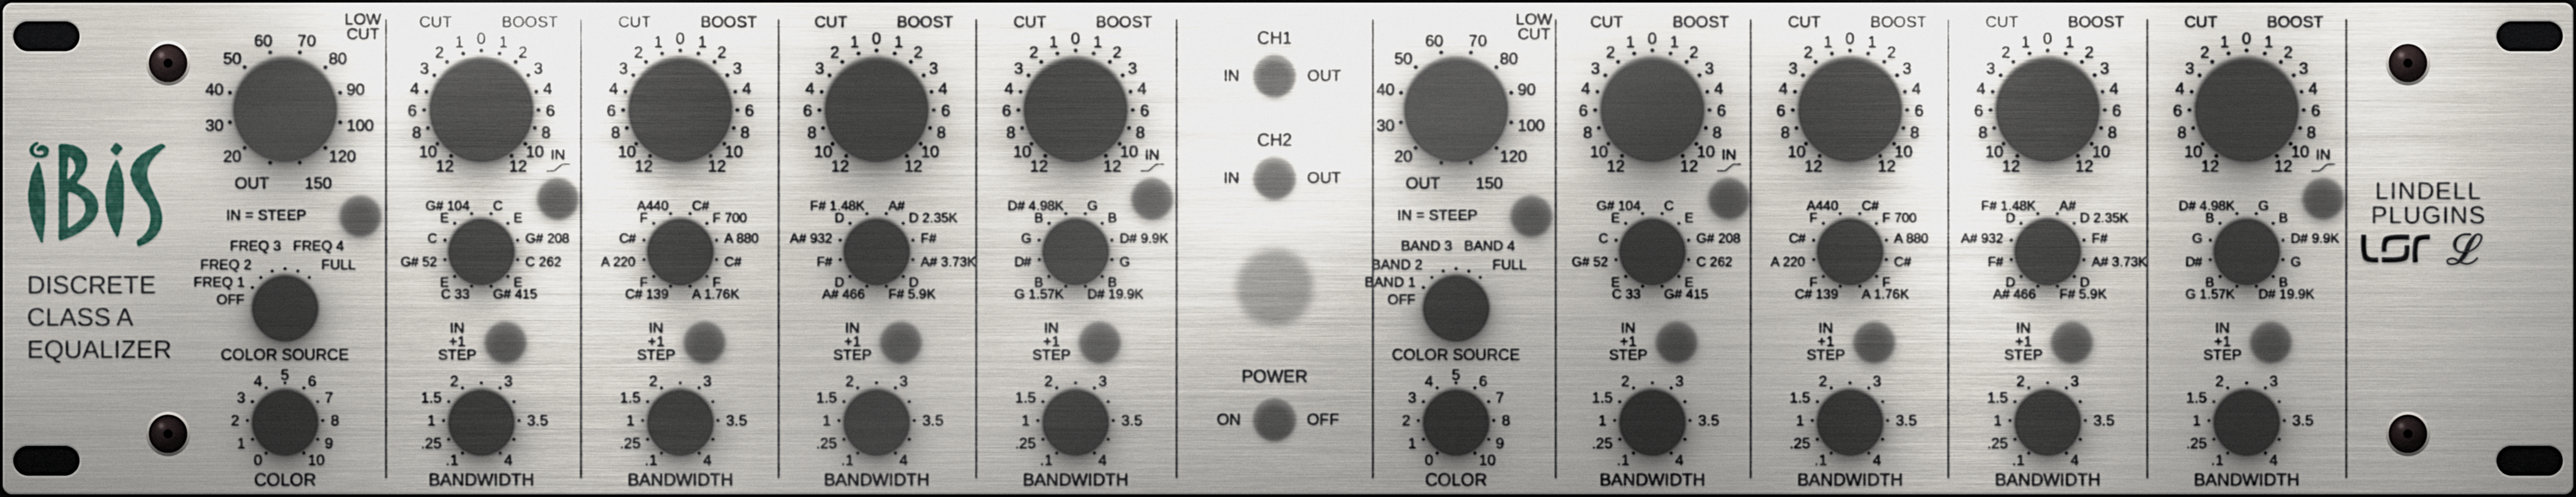
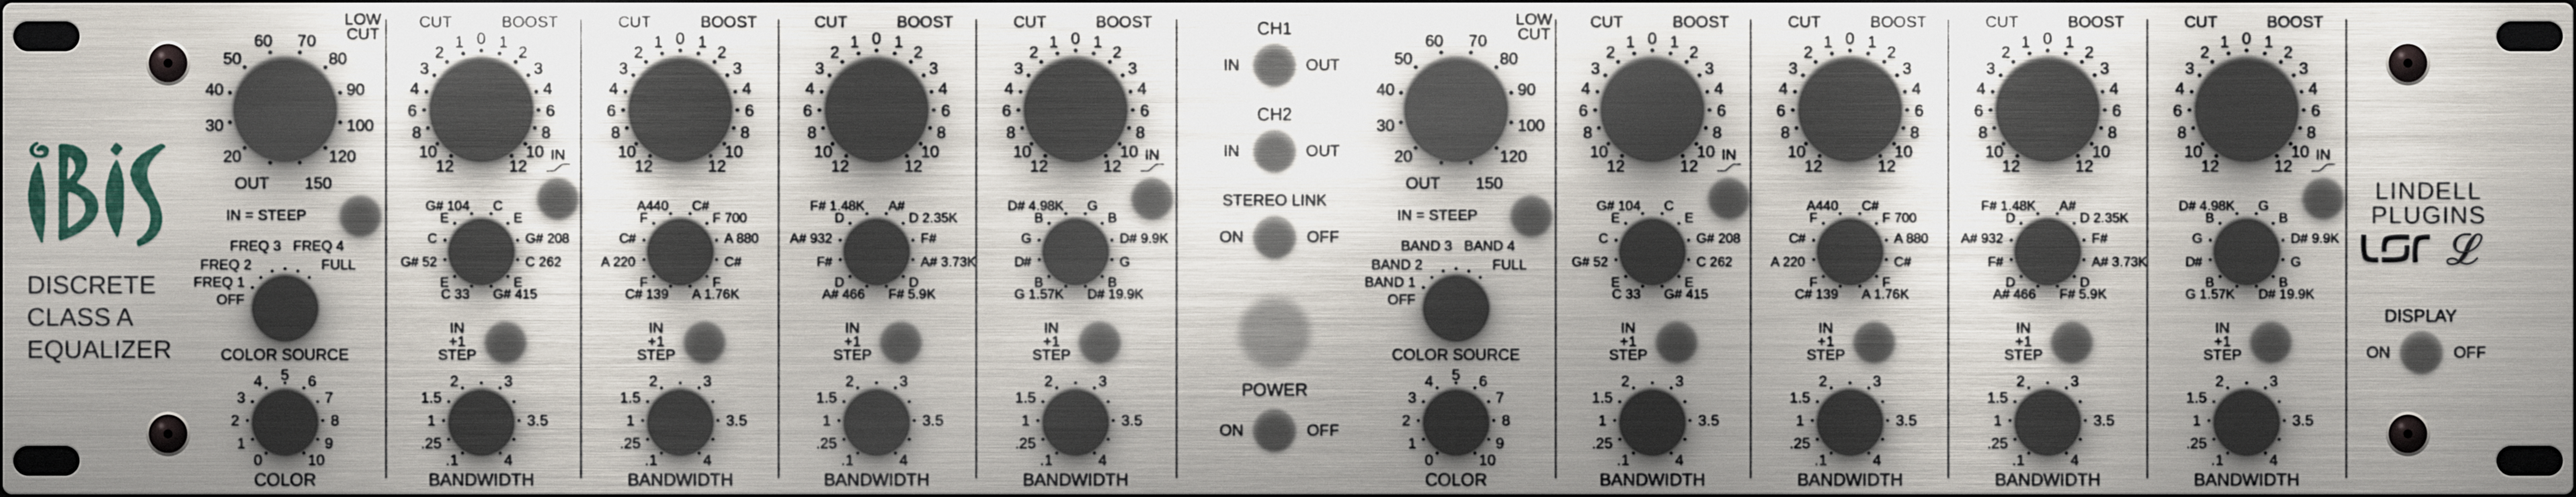
STEREO LINK and DISPLAY switches; remove divider through CH2 colour-source labels
- STEREO LINK toggle in the centre section (drives the link parameter)
- DISPLAY toggle on the right: folds the analyser away and resizes the plug-in
  (saved with the session)
- Centre section restacked: CH1, CH2, STEREO LINK, lamp, POWER

Claude-Session: https://claude.ai/code/session_01LNKzgozXbHNsCZNYUohMgB

Changed region(s): [[0.4658, 0.2176, 0.5279, 0.9014], [0.4658, 0.0622, 0.5279, 0.1865], [0.9006, 0.6216, 0.9627, 0.7459]]

diff --git a/Source/PluginEditor.cpp b/Source/PluginEditor.cpp
@@ -138,7 +138,9 @@ HeronEQAudioProcessorEditor::HeronEQAudioProcessorEditor (HeronEQAudioProcessor&
         addAndMakeVisible (*toggle);
         if (juce::String (t.name) == "ch1") ch1Att = std::make_unique<ButtonAtt> (proc.apvts, ids::channelIn (0), *toggle);
         if (juce::String (t.name) == "ch2") ch2Att = std::make_unique<ButtonAtt> (proc.apvts, ids::channelIn (1), *toggle);
+        if (juce::String (t.name) == "link") linkAtt = std::make_unique<ButtonAtt> (proc.apvts, ids::link, *toggle);
         if (juce::String (t.name) == "power") powerSwitch = toggle.get();
+        if (juce::String (t.name) == "display") displaySwitch = toggle.get();
         toggles.push_back ({ &t, std::move (toggle) });
     }
 
@@ -156,18 +158,31 @@ HeronEQAudioProcessorEditor::HeronEQAudioProcessorEditor (HeronEQAudioProcessor&
         }
     };
 
-    const float aspect = layout::panelW / (layout::panelH + layout::winH);
+    displayOn = (bool) proc.apvts.state.getProperty ("displayOn", true);
+    displaySwitch->setToggleState (displayOn, juce::dontSendNotification);
+    displaySwitch->onClick = [this] { setDisplayOn (displaySwitch->getToggleState()); };
+
     setResizable (true, false);
-    setResizeLimits (1000, juce::roundToInt (1000 / aspect), 2800, juce::roundToInt (2800 / aspect));
-    if (auto* c = getConstrainer())
-        c->setFixedAspectRatio (aspect);
-    setSize (1440, juce::roundToInt (1440 / aspect));
+    setSize (1440, 400);
+    setDisplayOn (displayOn);
 
     timerCallback();
     startTimerHz (30);
 }
 
 HeronEQAudioProcessorEditor::~HeronEQAudioProcessorEditor() { stopTimer(); }
+
+void HeronEQAudioProcessorEditor::setDisplayOn (bool on)
+{
+    displayOn = on;
+    proc.apvts.state.setProperty ("displayOn", on, nullptr);
+    const float aspect = layout::panelW / contentH();
+    setResizeLimits (1000, juce::roundToInt (1000 / aspect), 2800, juce::roundToInt (2800 / aspect));
+    if (auto* c = getConstrainer())
+        c->setFixedAspectRatio (aspect);
+    setSize (getWidth(), juce::roundToInt ((float) getWidth() / aspect));
+    repaint();
+}
 
 juce::Rectangle<float> HeronEQAudioProcessorEditor::panelRect (float cx, float cy, float w, float h) const
 {
@@ -241,9 +256,12 @@ void HeronEQAudioProcessorEditor::paint (juce::Graphics& g)
     const float k = (float) getWidth() / layout::panelW;
     g.setImageResamplingQuality (juce::Graphics::highResamplingQuality);
     g.drawImage (panel, { 0.0f, 0.0f, (float) getWidth(), layout::panelH * k }, juce::RectanglePlacement::stretchToFit);
-    g.drawImage (windowImg, { 0.0f, layout::panelH * k, (float) getWidth(), layout::winH * k },
-                 juce::RectanglePlacement::stretchToFit);
-    paintDisplay (g);
+    if (displayOn)
+    {
+        g.drawImage (windowImg, { 0.0f, layout::panelH * k, (float) getWidth(), layout::winH * k },
+                     juce::RectanglePlacement::stretchToFit);
+        paintDisplay (g);
+    }
 
     const float lw = (float) layout::lampFrame / layout::assetScale;
     g.drawImage (frameOf (lampStrip, layout::lampFrame, lampOn ? 1 : 0),
@@ -274,8 +292,11 @@ void HeronEQAudioProcessorEditor::timerCallback()
     const bool power = proc.apvts.getRawParameterValue (ids::bypass)->load() < 0.5f;
     powerSwitch->setToggleState (power, juce::dontSendNotification);
 
-    updateSpectrum();
-    repaint (displayArea());
+    if (displayOn)
+    {
+        updateSpectrum();
+        repaint (displayArea());
+    }
     if (power != lampOn)
     {
         lampOn = power;

diff --git a/tools/render_assets.py b/tools/render_assets.py
@@ -59,17 +59,21 @@ LARGE_R = 37.0                  # gain / low cut
 SMALL_R = 23.5                  # freq / bandwidth / colour source / colour
 BUTTON_R = 15.0
 TOGGLE_R = 18.5
-LAMP = (948.0, 211.0, 29.0)     # cx, cy, bezel radius
+LAMP = (948.0, 245.0, 27.0)     # cx, cy, bezel radius
 
 CH_X = {0: dict(lc=212.0, bands=[358.0, 506.0, 652.0, 800.0]),
         1: dict(lc=1083.0, bands=[1229.0, 1376.0, 1523.0, 1671.0])}
 Y_GAIN, Y_FREQ, Y_BW = 80.0, 186.0, 313.0
 Y_LC, Y_COLSRC, Y_COLOUR = 80.0, 228.0, 313.0
 Y_STEP, Y_SHELF, Y_STEEP = 254.0, 147.0, 160.0
-TOGGLES = {"ch1": (948.0, 56.0), "ch2": (948.0, 132.0), "power": (948.0, 312.0)}
+TOGGLES = {"ch1": (948.0, 48.0), "ch2": (948.0, 112.0), "link": (948.0, 176.0),
+           "power": (948.0, 320.0), "display": (1801.0, 262.0)}
+# printed legends of each toggle: title, left position, right position
+TOGGLE_LEGENDS = {"ch1": ("CH1", "IN", "OUT"), "ch2": ("CH2", "IN", "OUT"), "link": ("STEREO LINK", "ON", "OFF"),
+                  "power": ("POWER", "ON", "OFF"), "display": ("DISPLAY", "ON", "OFF")}
 SCREWS = [(125.0, 47.0), (125.0, 323.0), (1791.0, 47.0), (1791.0, 323.0)]
 SLOTS = [(10, 16, 59, 38), (10, 332, 59, 354), (1857, 16, 1906, 38), (1857, 332, 1906, 354)]
-DIVIDERS = [287.0, 432.0, 579.0, 726.0, 875.0, 1021.0, 1157.0, 1302.0, 1449.0, 1597.0, 1745.0]
+DIVIDERS = [287.0, 432.0, 579.0, 726.0, 875.0, 1157.0, 1302.0, 1449.0, 1597.0, 1745.0]
 LOGOS = [("logo_lsr.png", 1782.0, 185.0, 22.0), ("logo_l.png", 1833.0, 185.5, None)]
 
 # Analyser display under the faceplate (its own coordinates, same width)
@@ -201,14 +205,10 @@ def misc_legends(L):
     L.text("PLUGINS", 1806.0, 160.0, 12.5, track=0.8, weight=0.12)
     # centre section
     for name, (x, y) in TOGGLES.items():
-        if name == "power":
-            L.text("POWER", x, y - 32.0, TITLE)
-            L.text("ON", x - 34.0, y, TITLE * 0.92)
-            L.text("OFF", x + 36.0, y, TITLE * 0.92)
-        else:
-            L.text(name.upper(), x, y - 28.0, TITLE)
-            L.text("IN", x - 32.0, y, TITLE * 0.92)
-            L.text("OUT", x + 37.0, y, TITLE * 0.92)
+        title, left, right = TOGGLE_LEGENDS[name]
+        L.text(title, x, y - (30.0 if name == "power" else 27.0), TITLE * (0.9 if len(title) > 8 else 1.0))
+        L.text(left, x - 32.0 - 1.5 * (len(left) - 2), y, TITLE * 0.92)
+        L.text(right, x + 36.0, y, TITLE * 0.92)
     # dividers between the sections
     for x in DIVIDERS:
         L.line(x, 14.0, x, 356.0, 1.3)

diff --git a/Source/Layout.h b/Source/Layout.h
@@ -12,7 +12,7 @@ namespace layout
     constexpr int toggleFrame = 96;
     constexpr float toggleR = 18.5f;
     constexpr int lampFrame = 200;
-    constexpr float lampX = 948.0f, lampY = 211.0f;
+    constexpr float lampX = 948.0f, lampY = 245.0f;
 
     // analyser display under the faceplate (window coordinates, same width)
     constexpr float winH = 190.0f;
@@ -95,8 +95,10 @@ namespace layout
     struct Toggle { const char* name; float x, y; };
     inline constexpr Toggle toggles[] =
     {
-        { "ch1", 948.0f, 56.0f },
-        { "ch2", 948.0f, 132.0f },
-        { "power", 948.0f, 312.0f },
+        { "ch1", 948.0f, 48.0f },
+        { "ch2", 948.0f, 112.0f },
+        { "link", 948.0f, 176.0f },
+        { "power", 948.0f, 320.0f },
+        { "display", 1801.0f, 262.0f },
     };
 }

diff --git a/Source/PluginEditor.h b/Source/PluginEditor.h
@@ -76,8 +76,14 @@ private:
     std::vector<KnobSlot> knobs;
     std::vector<ButtonSlot> buttons;
     std::vector<ToggleSlot> toggles;
-    std::unique_ptr<ButtonAtt> ch1Att, ch2Att;
+    std::unique_ptr<ButtonAtt> ch1Att, ch2Att, linkAtt;
     FilmstripToggle* powerSwitch = nullptr;
+    FilmstripToggle* displaySwitch = nullptr;
+
+    // DISPLAY switch: shows / hides the analyser plate (saved with the plug-in state)
+    bool displayOn = true;
+    void setDisplayOn (bool on);
+    float contentH() const { return layout::panelH + (displayOn ? layout::winH : 0.0f); }
 
     bool lampOn = true;
 

diff --git a/README.md b/README.md
@@ -35,6 +35,8 @@ on the Crane Song IBIS discrete Class-A equaliser, with a photographic bitmap fr
 - **Two channels, like the hardware.** CH1 processes left and CH2 processes right.
   They are linked by default, so either half of the panel controls both channels.
   Right-click an empty part of the panel to unlink them (dual mono) or to copy CH1 to CH2.
+- **STEREO LINK** switch (also on the right-click menu) and a **DISPLAY** switch that
+  shows or hides the analyser under the faceplate.
 - **CH1 / CH2 IN/OUT switches** and a **POWER** switch, which is the host bypass. The
   lamp goes out when POWER is off.
 - 2× oversampling, a bypass that crossfades with no click, and automation
